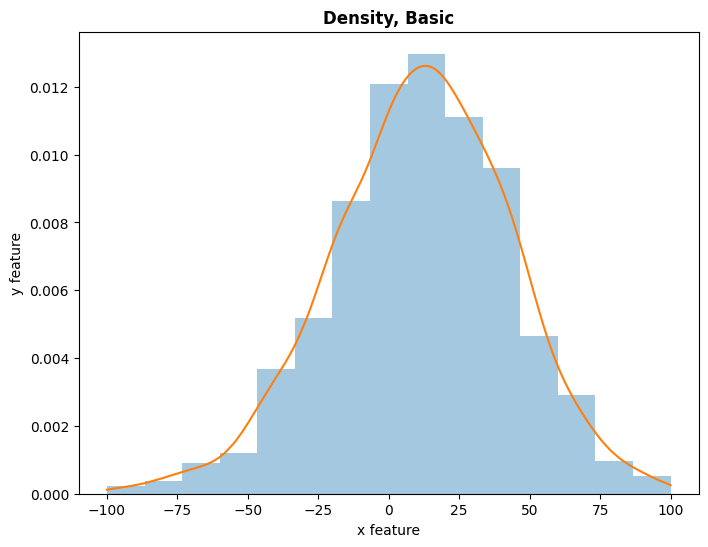
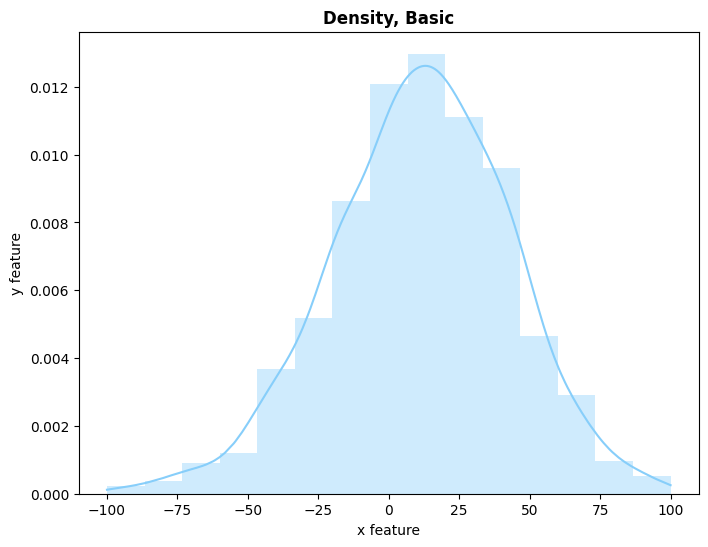
Add barchart

Changed region(s): [[0.1554, 0.0932, 0.9633, 0.9013]]

diff --git a/dexplorer/visualizations/plot1d.py b/dexplorer/visualizations/plot1d.py
@@ -1,6 +1,7 @@
 ### Set Up ###
 
 # global imports
+import numpy as np
 import pandas as pd
 import matplotlib.pyplot as plt
 
@@ -32,6 +33,9 @@ class Histogram(Plot):
         return density
 
     def _add_plot_data(self, fig: Any, data: pd.DataFrame, color: str=None):
+        # get color
+        color = self.categorical_colors[0] if color is None else color
+
         # create plot
         x = sorted(data[self.x_column])
         plt.hist(x, bins=self.num_bins, color=color, density=self.density, alpha=self.alpha)
@@ -44,6 +48,63 @@ class Histogram(Plot):
         # return figure
         return fig
 
+    def create_plot(self, title: str, color_column: str=None, 
+                    x_ticks_width: int=None, y_ticks_width: int=None):
+        # get plot axes
+        fig = self._get_plot_axes(title, 
+                                  x_ticks_width=x_ticks_width, 
+                                  y_ticks_width=y_ticks_width,
+                                  x_ticks_labels=None
+                                  )
+        
+        # add data to the plot
+        if color_column == None:
+            fig = self._add_plot_data(fig, self.data, color=None)
+            
+        else:
+           fig = self._add_categorical_plot_data(fig, color_column, self._add_plot_data)
+
+        # return figure
+        return fig
+    
+class BarChart(Plot):
+    def __init__(self, data: pd.DataFrame, x_column: str, labels_column:str, 
+                 labels: list, x_label: str, y_label: str, width: float, figsize: Tuple=(8, 6)):
+        super(BarChart, self).__init__(data, x_column, 
+                                       x_label, y_label, 
+                                       y_column=None,
+                                       figsize=figsize
+                                      )
+        
+        # set member variables
+        self.labels = labels  # assumes labels are in the desired ordering
+        self.labels_column = labels_column
+        self.x = np.arange(len(self.labels))
+        self.width = width
+        self.i = 0
+
+        labels_ordering = pd.DataFrame(labels, columns=[self.labels_column])
+        labels_ordering['order'] = np.arange(labels_ordering.shape[0])
+        self.labels_ordering = labels_ordering
+        
+    def _add_plot_data(self, fig: Any, data: pd.DataFrame, color: str=None):
+        # get color
+        color = self.categorical_colors[0] if color is None else color
+
+        # get data
+        ordered_data = pd.merge(self.labels_ordering, data[[self.x_column, self.labels_column]], 
+                                on=self.labels_column, how='left'
+                                )
+        ordered_data.sort_values(by='order', inplace=True)
+        x = ordered_data[self.x_column].tolist()
+
+        # create plot
+        plt.bar(self.x + (self.i * self.width), x, self.width, color=color)
+        self.i += 1
+
+        # return figure
+        return fig
+        
     def create_plot(self, title: str, color_column: str=None, 
                     x_ticks_width: int=None, y_ticks_width: int=None):
         # get plot axes

diff --git a/examples/bar_chart.py b/examples/bar_chart.py
@@ -1,0 +1,59 @@
+### Set Up ###
+
+# global imports
+import os
+import pandas as pd
+import matplotlib.pyplot as plt
+from dexplorer.visualizations import BarChart
+
+# function arguments
+x_column = 'feature_2' 
+x_label = ''
+y_label = 'Sum'
+labels_column = 'feature_11'
+figsize = (8, 6)
+
+### Main Program ###
+
+# get data
+data = pd.read_csv('data.csv')
+
+# basic bar chart
+basic_data = data.groupby([labels_column])\
+    .agg({x_column: 'sum'})\
+    .reset_index()\
+    .sort_values(by=x_column)
+labels = basic_data[labels_column].tolist()
+
+width = 0.8
+bar_chart = BarChart(basic_data, x_column, 
+                     labels_column, labels, 
+                     x_label, y_label, 
+                     width, 
+                     figsize=figsize
+                    )
+
+bar_chart_basic = bar_chart.create_plot('Bar Chart, Basic')
+plt.savefig(os.path.join('plots', 'bar_chart_basic.png'),
+            bbox_inches='tight'
+            )
+
+# basic histogram colored by column
+categorical_data = data.groupby([labels_column, 'feature_9'])\
+    .agg({x_column: 'sum'})\
+    .reset_index()\
+    .sort_values(by=x_column)
+
+width = 0.3
+bar_chart = BarChart(categorical_data, x_column, 
+                     labels_column, labels, 
+                     x_label, y_label, 
+                     width, 
+                     figsize=figsize
+                    )
+bar_chart_categorical = bar_chart.create_plot('Bar Chart, Categorical', 
+                                              color_column='feature_9'
+                                              )
+plt.savefig(os.path.join('plots', 'bar_chart_categorical.png'),
+            bbox_inches='tight'
+            )

diff --git a/dexplorer/visualizations/plot2d.py b/dexplorer/visualizations/plot2d.py
@@ -42,6 +42,9 @@ class LineChart(Plot):
         return error_low, error_high
 
     def _add_plot_data(self, fig: Any, data: pd.DataFrame, color: str=None):
+        # get color
+        color = self.categorical_colors[0] if color is None else color
+        
         # create plot
         x = data[self.x_column]
         y = data[self.y_column]

diff --git a/dexplorer/visualizations/__init__.py b/dexplorer/visualizations/__init__.py
@@ -1,7 +1,8 @@
-from .plot1d import Histogram
+from .plot1d import BarChart, Histogram
 from .plot2d import LineChart, Scatterplot
 
-__all__ = ['Histogram',
+__all__ = ['BarChart', 
+           'Histogram',
            'LineChart', 
            'Scatterplot'
           ]
